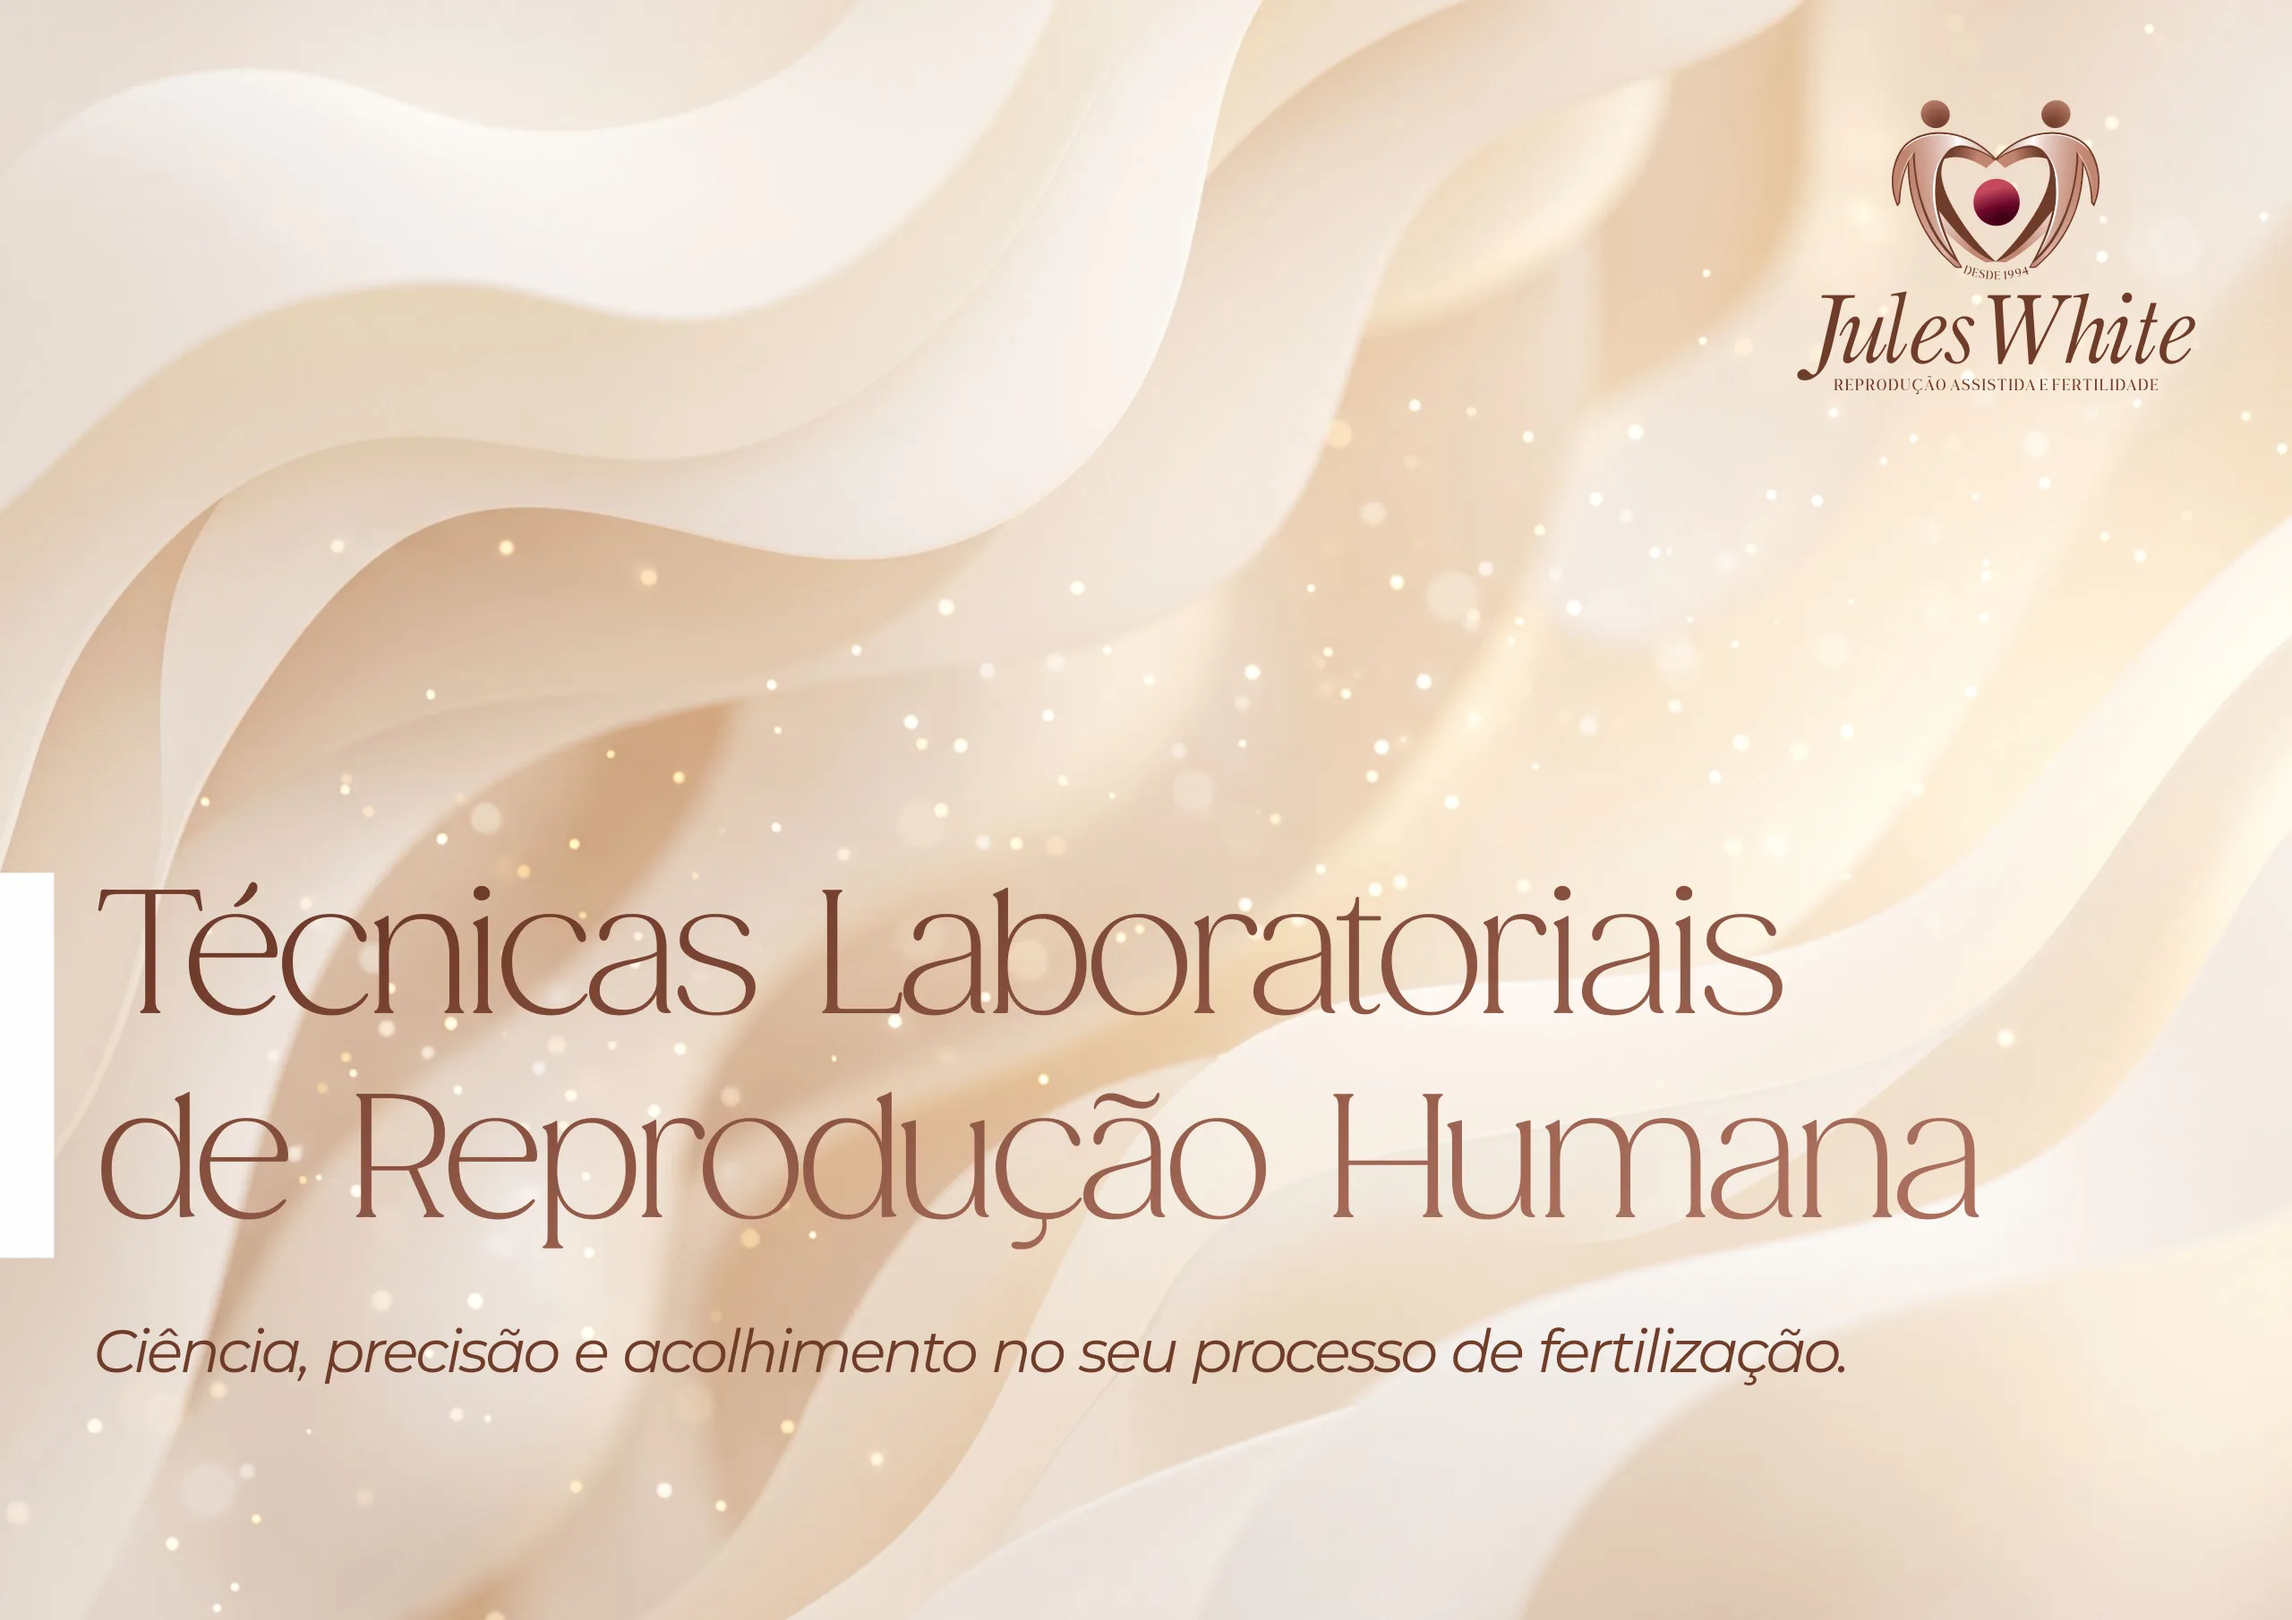
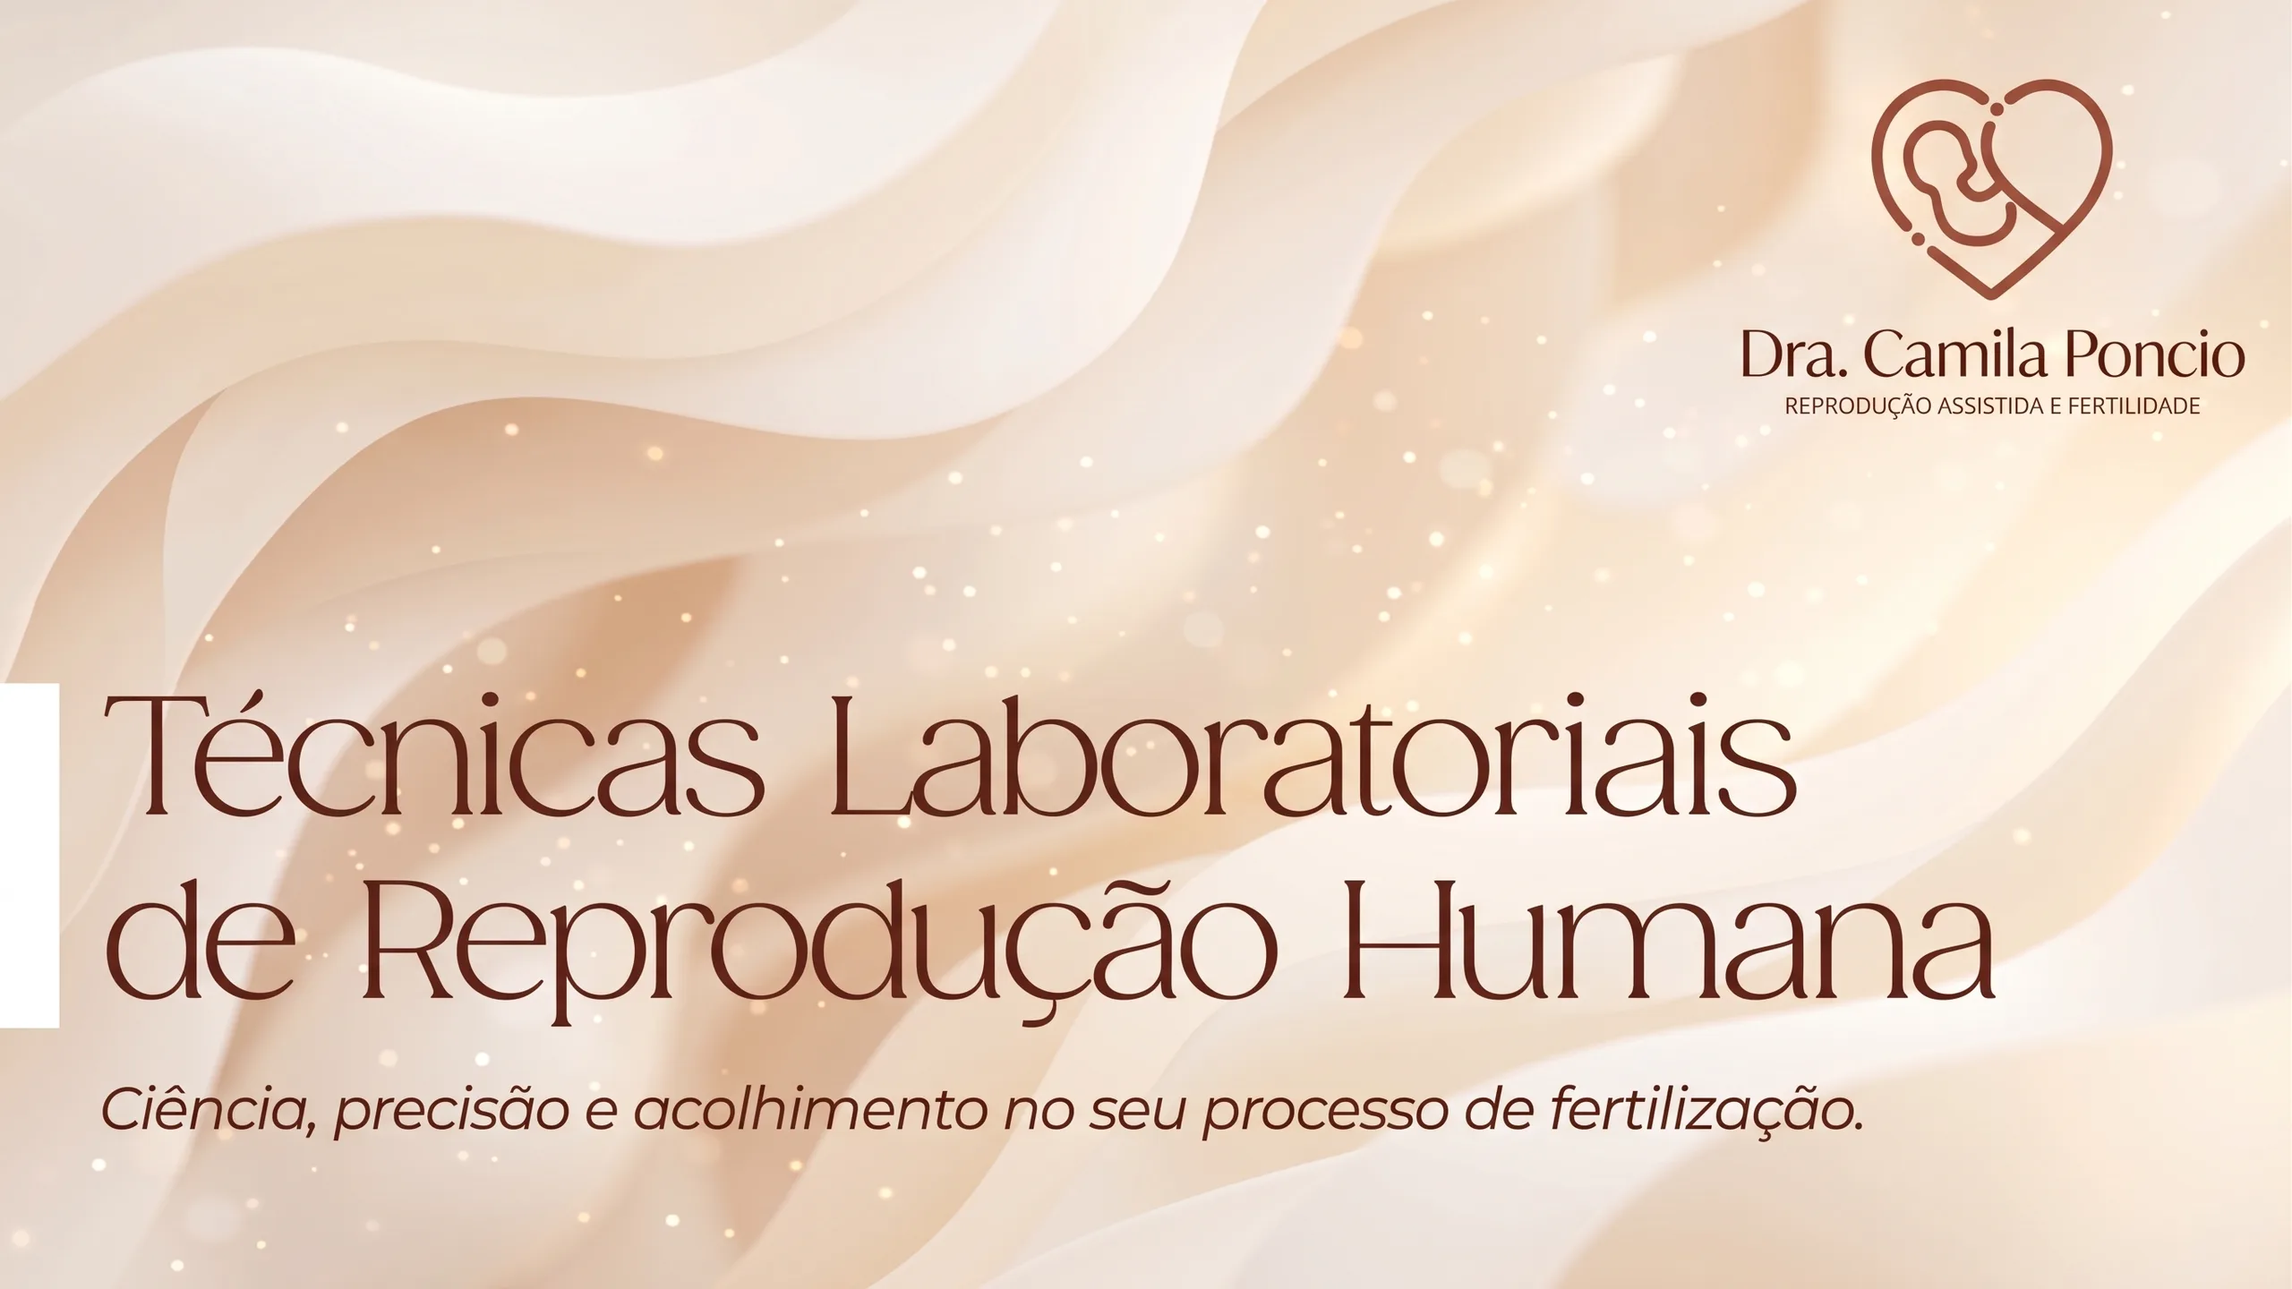
Troca a marca para Dra. Camila Poncio
- Nova capa (16:9) e nova lâmina final com a marca Camila Poncio
- Logo recolorido no marrom da apresentação: tela inicial, canto do
  visualizador, favicon e ícone do celular
- Visualizador respeita a proporção de cada lâmina (capa 16:9, demais A4)
- Versão nas imagens substituídas para não ficarem presas no cache

diff --git a/styles.css b/styles.css
@@ -78,7 +78,7 @@ img { display: block; max-width: 100%; }
 .home-bg { position: fixed; inset: 0; z-index: -1; overflow: hidden; background: var(--bg); }
 .home-bg::before {
   content: ""; position: absolute; inset: -40px;
-  background: url("slides/01-1400.webp") 70% 20% / cover no-repeat;
+  background: url("slides/01-1400.webp?v=2") 70% 20% / cover no-repeat;
   filter: blur(18px) saturate(1.1);
   animation: drift 24s ease-in-out infinite alternate;
 }
@@ -88,7 +88,7 @@ img { display: block; max-width: 100%; }
 }
 @keyframes drift { to { transform: scale(1.12) translate(-2%, 2%); } }
 .home-inner { width: min(1080px, 100%); margin: auto; padding: calc(40px + var(--safe-t)) 24px calc(40px + var(--safe-b)); }
-.brand { width: 64px; height: 64px; border-radius: 16px; margin-bottom: 20px; box-shadow: var(--shadow); }
+.brand { width: min(300px, 70vw); height: auto; margin-bottom: 26px; }
 #home h1 { font-size: clamp(38px, 6vw, 72px); color: var(--brown); }
 .home-sub { font-style: italic; color: var(--muted); max-width: 520px; margin: 16px 0 28px; font-size: 17px; }
 .home-actions { display: grid; grid-template-columns: repeat(2, minmax(0, 1fr)); gap: 12px; max-width: 760px; }
@@ -144,7 +144,7 @@ img { display: block; max-width: 100%; }
   transition: border-color .2s;
 }
 .trail-list button:hover { border-color: var(--rose); }
-.trail-list img { width: 104px; aspect-ratio: 842 / 595; height: auto; border-radius: 8px; flex: none; }
+.trail-list img { width: 104px; aspect-ratio: 842 / 595; height: auto; object-fit: cover; border-radius: 8px; flex: none; }
 .trail-list .t-num { font-family: var(--display); font-size: 28px; color: var(--rose); width: 28px; text-align: center; flex: none; }
 .trail-list .t-num::before { content: counter(t); }
 .trail-list b { display: block; font-weight: 600; font-size: 15px; }
@@ -157,7 +157,7 @@ img { display: block; max-width: 100%; }
   background: var(--paper); border-bottom: 1px solid var(--line); z-index: 3;
   transition: transform .35s, opacity .35s;
 }
-.v-top .icon-btn img { width: 28px; height: 28px; border-radius: 8px; }
+.v-top .icon-btn img { width: 30px; height: auto; }
 .v-title { flex: 1; min-width: 0; display: flex; align-items: baseline; gap: 10px; }
 .v-mod { font-size: 11px; letter-spacing: .14em; text-transform: uppercase; color: var(--brown-2); font-weight: 600; white-space: nowrap; }
 .v-name { font-family: var(--display); font-size: 21px; color: var(--brown); white-space: nowrap; overflow: hidden; text-overflow: ellipsis; }
@@ -179,8 +179,8 @@ img { display: block; max-width: 100%; }
 }
 .slide-frame {
   position: relative; margin: 0;
-  width: min(calc(100cqw - 150px), calc((100cqh - 40px) * 1.4151));
-  aspect-ratio: 842 / 595;
+  width: min(calc(100cqw - 150px), calc((100cqh - 40px) * var(--ar, 1.4151)));
+  aspect-ratio: var(--ar, 1.4151);
   border-radius: 10px; overflow: hidden;
   box-shadow: 0 30px 60px -30px rgba(63, 31, 22, .55), 0 0 0 1px rgba(107, 53, 40, .08);
   background: var(--paper-2);
@@ -327,7 +327,7 @@ img { display: block; max-width: 100%; }
 #viewer.fs .v-bottom { bottom: 0; }
 #viewer.fs { background: #1d0f0b; }
 #viewer.fs .stage { padding: 0; }
-#viewer.fs .slide-frame { width: min(100cqw, calc(100cqh * 1.4151)); border-radius: 0; }
+#viewer.fs .slide-frame { width: min(100cqw, calc(100cqh * var(--ar, 1.4151))); border-radius: 0; }
 
 /* transição entre lâminas */
 ::view-transition-group(slide) { animation-duration: .42s; animation-timing-function: cubic-bezier(.2, .8, .2, 1); }
@@ -378,14 +378,14 @@ dialog { border: 0; padding: 0; color: var(--ink); }
 .thumb {
   flex: none; width: 128px; border: 0; padding: 0; background: none; text-align: left; scroll-snap-align: start;
 }
-.thumb img { width: 100%; aspect-ratio: 842 / 595; height: auto; border-radius: 8px; box-shadow: 0 0 0 1px var(--line); transition: box-shadow .2s, transform .2s; }
+.thumb img { width: 100%; aspect-ratio: 842 / 595; height: auto; object-fit: cover; border-radius: 8px; box-shadow: 0 0 0 1px var(--line); transition: box-shadow .2s, transform .2s; }
 .thumb:hover img { transform: translateY(-2px); box-shadow: 0 0 0 2px var(--rose); }
 .thumb.current img { box-shadow: 0 0 0 3px var(--brown); }
 .thumb small { display: block; font-size: 11.5px; color: var(--muted); margin-top: 5px; line-height: 1.3; }
 .thumb small b { color: var(--brown); font-weight: 600; }
 .sum-result { width: 100%; display: flex; gap: 12px; align-items: center; padding: 8px; border: 0; border-radius: 12px; background: none; text-align: left; }
 .sum-result:hover { background: var(--paper-2); }
-.sum-result img { width: 96px; aspect-ratio: 842 / 595; height: auto; border-radius: 6px; flex: none; }
+.sum-result img { width: 96px; aspect-ratio: 842 / 595; height: auto; object-fit: cover; border-radius: 6px; flex: none; }
 .sum-result b { font-weight: 600; display: block; font-size: 14px; }
 .sum-result small { color: var(--muted); font-size: 12.5px; display: -webkit-box; -webkit-line-clamp: 2; -webkit-box-orient: vertical; overflow: hidden; }
 .sum-result mark { background: #f1d3c4; color: inherit; border-radius: 3px; }
@@ -483,7 +483,7 @@ dialog { border: 0; padding: 0; color: var(--ink); }
   .v-top .icon-btn { width: 40px; height: 40px; }
   .v-name { font-size: 17px; }
   .v-bottom { padding-top: 2px; padding-bottom: calc(2px + var(--safe-b)); }
-  .slide-frame { width: min(calc(100cqw - 120px), calc((100cqh - 12px) * 1.4151)); border-radius: 6px; }
+  .slide-frame { width: min(calc(100cqw - 120px), calc((100cqh - 12px) * var(--ar, 1.4151))); border-radius: 6px; }
   .nav-arrow { width: 44px; height: 44px; font-size: 26px; }
   .nav-arrow.prev { left: 8px; } .nav-arrow.next { right: 8px; }
   #viewer.reading .read-panel, #viewer.reading .rp-inner { width: min(320px, 40vw); }

diff --git a/index.html b/index.html
@@ -3,7 +3,7 @@
 <head>
   <meta charset="utf-8">
   <meta name="viewport" content="width=device-width, initial-scale=1, viewport-fit=cover">
-  <title>Técnicas Laboratoriais de Reprodução Humana · Jules White</title>
+  <title>Técnicas Laboratoriais de Reprodução Humana · Dra. Camila Poncio</title>
   <meta name="description" content="Apresentação interativa: a jornada da reprodução assistida em 6 módulos.">
   <meta name="theme-color" content="#6b3528">
   <meta property="og:title" content="Técnicas Laboratoriais de Reprodução Humana">
@@ -14,7 +14,7 @@
   <link rel="preconnect" href="https://fonts.googleapis.com">
   <link rel="preconnect" href="https://fonts.gstatic.com" crossorigin>
   <link href="https://fonts.googleapis.com/css2?family=Italiana&family=Montserrat:ital,wght@0,400;0,500;0,600;1,400&display=swap" rel="stylesheet">
-  <link rel="preload" as="image" href="slides/01-1400.webp" fetchpriority="high">
+  <link rel="preload" as="image" href="slides/01-1400.webp?v=2" fetchpriority="high">
   <link rel="stylesheet" href="styles.css">
 </head>
 <body>
@@ -23,8 +23,8 @@
 <section id="home" class="screen" aria-labelledby="home-title">
   <div class="home-bg" aria-hidden="true"></div>
   <div class="home-inner">
-    <img class="brand" src="icon.png" alt="" width="64" height="64">
-    <p class="eyebrow">Jules White · Reprodução Assistida</p>
+    <img class="brand" src="brand/logo.png" alt="Camila Poncio · Medicina Reprodutiva" width="1200" height="235">
+    <p class="eyebrow">Apresentação interativa</p>
     <h1 id="home-title" class="display">Técnicas Laboratoriais<br>de Reprodução Humana</h1>
     <p class="home-sub">Ciência, precisão e acolhimento no seu processo de fertilização. Escolha como quer explorar:</p>
 
@@ -94,7 +94,7 @@
 <!-- ============ APRESENTAÇÃO ============ -->
 <section id="viewer" class="screen" hidden aria-label="Apresentação">
   <header class="v-top">
-    <button class="icon-btn" data-go="home" aria-label="Início"><img src="icon.png" alt="" width="28" height="28"></button>
+    <button class="icon-btn" data-go="home" aria-label="Início"><img src="brand/marca.png" alt="" width="281" height="256"></button>
     <div class="v-title">
       <span class="v-mod" id="v-mod"></span>
       <span class="v-name" id="v-name"></span>

diff --git a/data.js b/data.js
@@ -47,8 +47,10 @@ export const SLIDES = [
   {
     title: "Técnicas Laboratoriais de Reprodução Humana",
     kind: "capa",
-    text: `<p class="lead">Ciência, precisão e acolhimento no seu processo de fertilização.</p><p>Jules White — Reprodução Assistida e Fertilidade.</p>`,
-    alt: "Capa: Técnicas Laboratoriais de Reprodução Humana, Jules White.",
+    v: 2,
+    ar: 2730 / 1536, // capa em 16:9 (as demais lâminas são A4)
+    text: `<p class="lead">Ciência, precisão e acolhimento no seu processo de fertilização.</p><p>Dra. Camila Poncio — Reprodução Assistida e Fertilidade.</p>`,
+    alt: "Capa: Técnicas Laboratoriais de Reprodução Humana, Dra. Camila Poncio.",
   },
   journey(1),
   {
@@ -233,9 +235,10 @@ export const SLIDES = [
   },
   {
     title: "Estamos Prontos para Caminhar com Você",
+    v: 2,
     kind: "capa",
-    text: `<p class="lead">Ciência de ponta com o carinho que a sua história merece.</p><p>Jules White — Reprodução Assistida e Fertilidade.</p>`,
-    alt: "Casal sorrindo segurando um teste de gravidez, com o logotipo Jules White.",
+    text: `<p class="lead">Ciência de ponta com o carinho que a sua história merece.</p><p>Dra. Camila Poncio — Medicina Reprodutiva.</p>`,
+    alt: "Casal sorrindo segurando um teste de gravidez, com o logotipo da Dra. Camila Poncio.",
   },
 ];
 

diff --git a/main.js b/main.js
@@ -4,7 +4,8 @@ const $ = (s, el = document) => el.querySelector(s);
 const $$ = (s, el = document) => [...el.querySelectorAll(s)];
 const TOTAL = SLIDES.length - 1;
 const pad = (n) => String(n).padStart(2, "0");
-const src = (n, w) => `slides/${pad(n)}-${w}.webp`;
+// "v" muda quando uma lâmina é substituída, para não ficar presa no cache
+const src = (n, w) => `slides/${pad(n)}-${w}.webp${SLIDES[n]?.v ? "?v=" + SLIDES[n].v : ""}`;
 const srcset = (n) => `${src(n, 1400)} 1400w, ${src(n, 2560)} 2560w`;
 const SIZES = "(max-width: 900px) and (orientation: portrait) 100vw, 85vw";
 const moduleOf = (n) => MODULES.find((m) => m.slides.includes(n));
@@ -146,6 +147,10 @@ function render(n) {
   state.n = n;
   state.rendered = true;
   const s = SLIDES[n];
+  const ar = s.ar || 842 / 595;
+  $("#frame").style.setProperty("--ar", ar);
+  img.width = 1400;
+  img.height = Math.round(1400 / ar);
   img.srcset = srcset(n);
   img.src = src(n, 1400);
   img.alt = `Lâmina ${n}: ${s.alt}`;

diff --git a/README.md b/README.md
@@ -1,4 +1,4 @@
-# Técnicas Laboratoriais de Reprodução Humana — Jules White
+# Técnicas Laboratoriais de Reprodução Humana — Dra. Camila Poncio
 
 Apresentação interativa com as 27 lâminas originais, organizada em 6 módulos.
 
